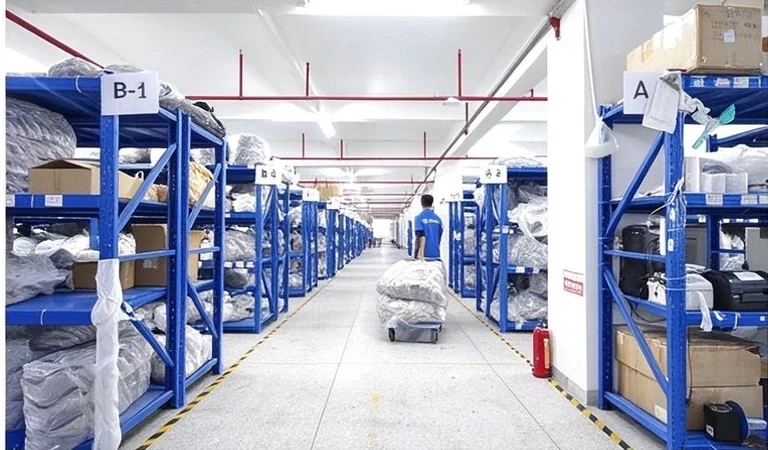
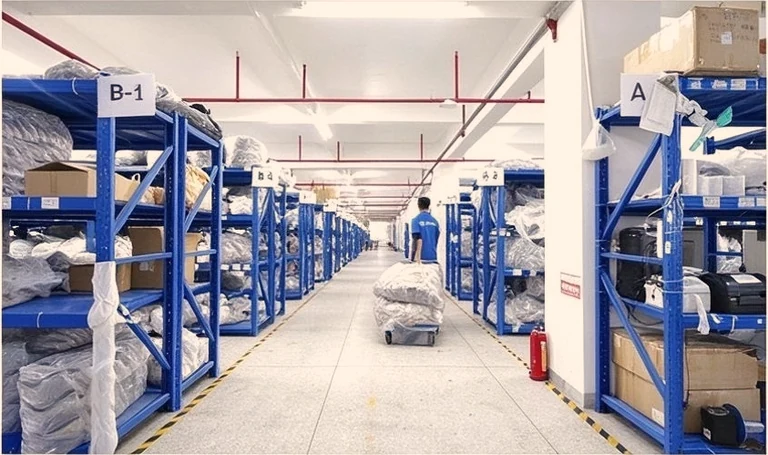
feat(home): rebuild factory montage as a 3x2 grid, desktop + mobile
The watermark-free collage re-crop gave every cell more pixels, so a 3x2 grid
is now both bigger on screen and sharper than the old 6-across strip.

Layout
- Desktop 768px+: 3 columns x 2 rows, 300 -> 360 -> 400px tile height.
- Mobile: 2 columns x 3 rows at 4:3, which keeps tiles usable on a 390px
  phone instead of shrinking three across.
- Descent order still reads Facility > Cutting > Sewing > Assembly >
  Warehouse > Showroom, left to right then next row.
- Captions kept, gradient deepened so white text stays legible over bright
  areas like the assembly conveyor.

Images
- Re-cropped all six slots from the updated D:\\高清图.jpeg (no watermark).
  Native widths 649-848px; every tile is backed by enough pixels at dpr 2
  at all breakpoints (worst density 1.02, verified per viewport).
- Cutting uses the machine close-up: it gives the top row a wide > detail >
  wide rhythm and, unlike the fabric-table shot, has no half-cropped head
  at the frame edge.
- Showroom trimmed 18% off the bottom to reduce the empty table foreground.
- Neutralised the cool fluorescent cast on sewing/assembly/warehouse
  (R/B went from 0.85-0.88 to 0.98-1.00), so all six tiles now sit within
  a 0.024 R/B spread and read as one set.
- No variant exceeds its native width.

Copy
- The note no longer claims QC and packing, which have no tile in the grid;
  it now names the stages actually shown.

diff --git a/src/styles/global.css b/src/styles/global.css
@@ -239,7 +239,10 @@
   text-wrap: balance;
 }
 
-/* Factory capability strip — full-bleed, 6 production stages across */
+/* Factory capability montage - 3x2 grid, full-bleed.
+   Mobile: 2 columns x 3 rows (each tile keeps a usable size on a narrow
+   screen). Tablet/desktop: 3 columns x 2 rows, taller tiles so the detail in
+   each photo is actually legible instead of a row of thumbnails. */
 .factory-strip {
   display: grid;
   grid-template-columns: repeat(2, 1fr);
@@ -277,11 +280,12 @@
   color: #fff;
   background: linear-gradient(
     to top,
-    rgba(8, 12, 20, 0.92) 0%,
-    rgba(8, 12, 20, 0.55) 55%,
+    rgba(6, 9, 16, 0.95) 0%,
+    rgba(6, 9, 16, 0.72) 45%,
+    rgba(6, 9, 16, 0.28) 72%,
     transparent 100%
   );
-  text-shadow: 0 1px 3px rgba(0, 0, 0, 0.85);
+  text-shadow: 0 1px 3px rgba(0, 0, 0, 0.9);
   padding-bottom: 0.55rem;
 }
 .strip-note {
@@ -309,10 +313,19 @@
   .strip-note { padding: 0 1.5rem; }
 }
 @media (min-width: 768px) {
-  .factory-strip { grid-template-columns: repeat(6, 1fr); }
-  .factory-strip .strip-cell { aspect-ratio: auto; height: 240px; }
-  .factory-strip .strip-cap { font-size: 0.6rem; }
+  /* 3 columns x 2 rows. Height is tuned so every tile stays above 1.0 pixel
+     density at devicePixelRatio 2 (tallest source cell is 596px -> a 340 CSS
+     px tile needs 680 device px, so use the 360px tier only from 768px up
+     where the source and the grid both allow it). */
+  .factory-strip { grid-template-columns: repeat(3, 1fr); gap: 4px; }
+  .factory-strip .strip-cell { aspect-ratio: auto; height: 300px; }
+  .factory-strip .strip-cap { font-size: 0.65rem; padding: 1.4rem 0.85rem 0.7rem; }
 }
 @media (min-width: 1024px) {
   .strip-note { padding: 0 2rem; }
+  .factory-strip .strip-cell { height: 360px; }
+  .factory-strip .strip-cap { font-size: 0.7rem; }
+}
+@media (min-width: 1440px) {
+  .factory-strip .strip-cell { height: 400px; }
 }
